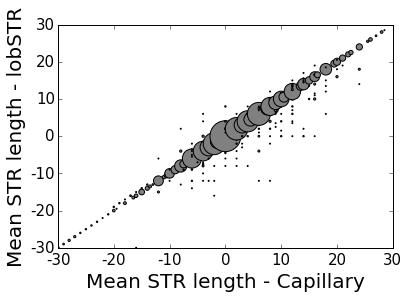
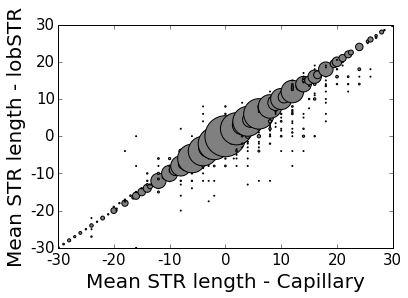
updating validation to include more markers

diff --git a/validation-sets.html b/validation-sets.html
@@ -100,7 +100,7 @@
 	<p>
 		We compared lobSTR calls for the SGDP data to the Rosenberg Marshfield genotypes.
 
-		105 samples and 204 markers overlapped between the two datasets after filtering for calls with a minimum coverage of 5x and minimum lobSTR quality score of 0.9. Overall the callsets showed <b>94% genotype concordance</b>. The plot below shows a comparison of genotype calls (r<sup>2</sup>=0.97). Genotypes are reported as the mean length difference in base pairs from the reference for the two alleles at each diploid locus.
+		105 samples and 397 markers overlapped between the two datasets after filtering for calls with a minimum coverage of 5x and minimum lobSTR quality score of 0.9. Overall the callsets showed <b>93% genotype concordance</b>. The plot below shows a comparison of genotype calls (r<sup>2</sup>=0.97). Genotypes are reported as the mean length difference in base pairs from the reference for the two alleles at each diploid locus.
 	</p>
 	<p>
 		<center>
